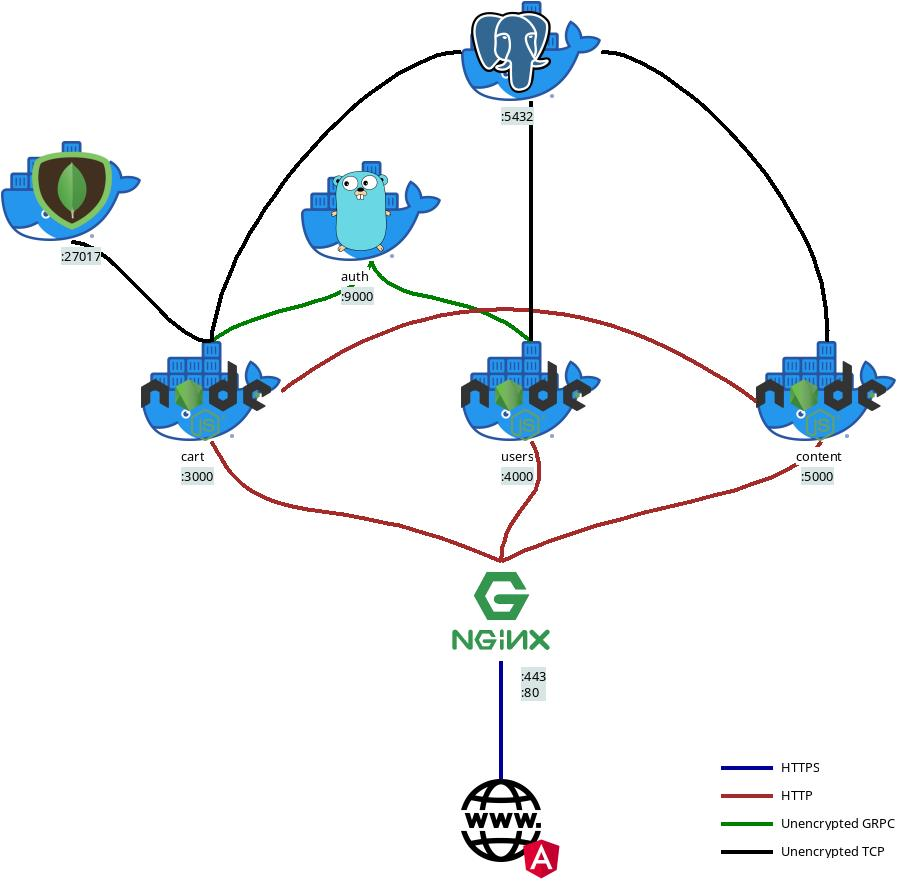
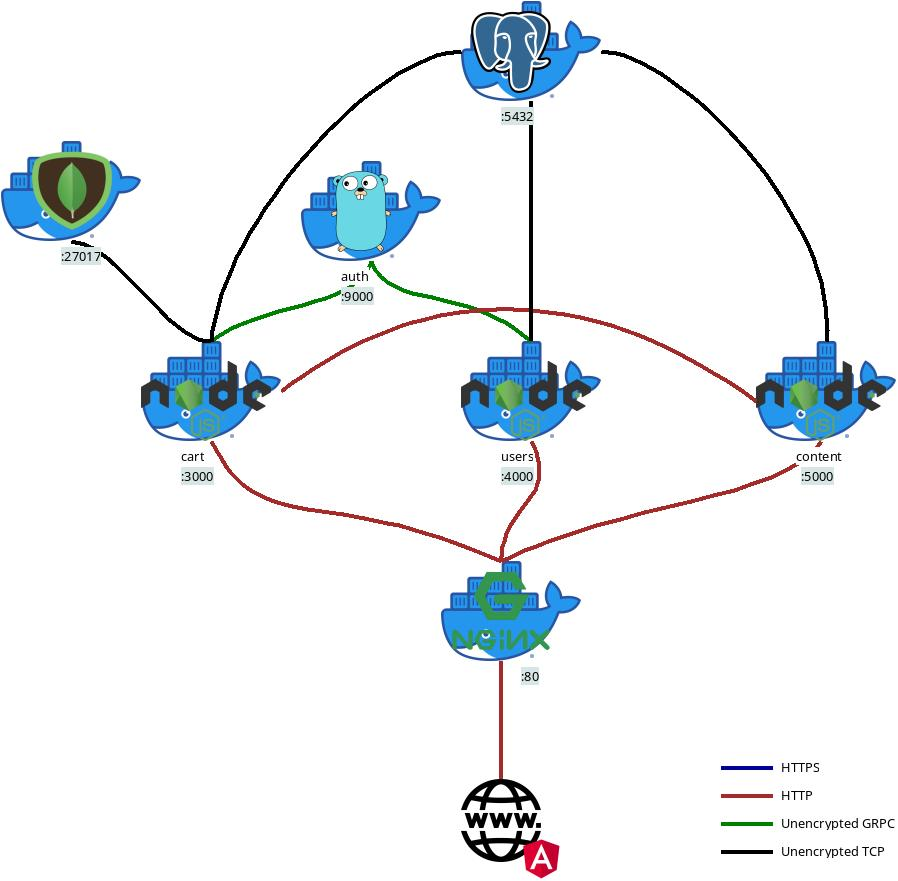
Updated README.md
Added TLS suggested architecture

Changed region(s): [[0.4677, 0.6129, 0.6548, 0.8888]]

diff --git a/README.md b/README.md
@@ -28,6 +28,19 @@ wget -O deploy.sh https://raw.githubusercontent.com/BenjaminGuzman/webmock/v2/de
 
 TODO insert video tutorial
 
+If you want to add TLS, the following architecture is suggested
+
+![TLS Architecture](docs/arch-tls.jpg)
+
+More clearly, just add a non-dockerized nginx server with 2 main purposes:
+
+1. Act as reverse proxy, i.e. forward all requests to (dockerized) nginx plain HTTP server at 127.0.0.1:8080
+
+2. Handle TLS. The server should have open port 443 and (optionally) port 80 to redirect to https.
+
+To add TLS to the non-dockerized nginx server [certbot](https://certbot.eff.org/) and 
+[Let's Encrypt](https://letsencrypt.org/) are recommended.
+
 ## Develop
 
 If you want to run the project locally you'll need to spin up the angular server (described in Frontend section) and 
